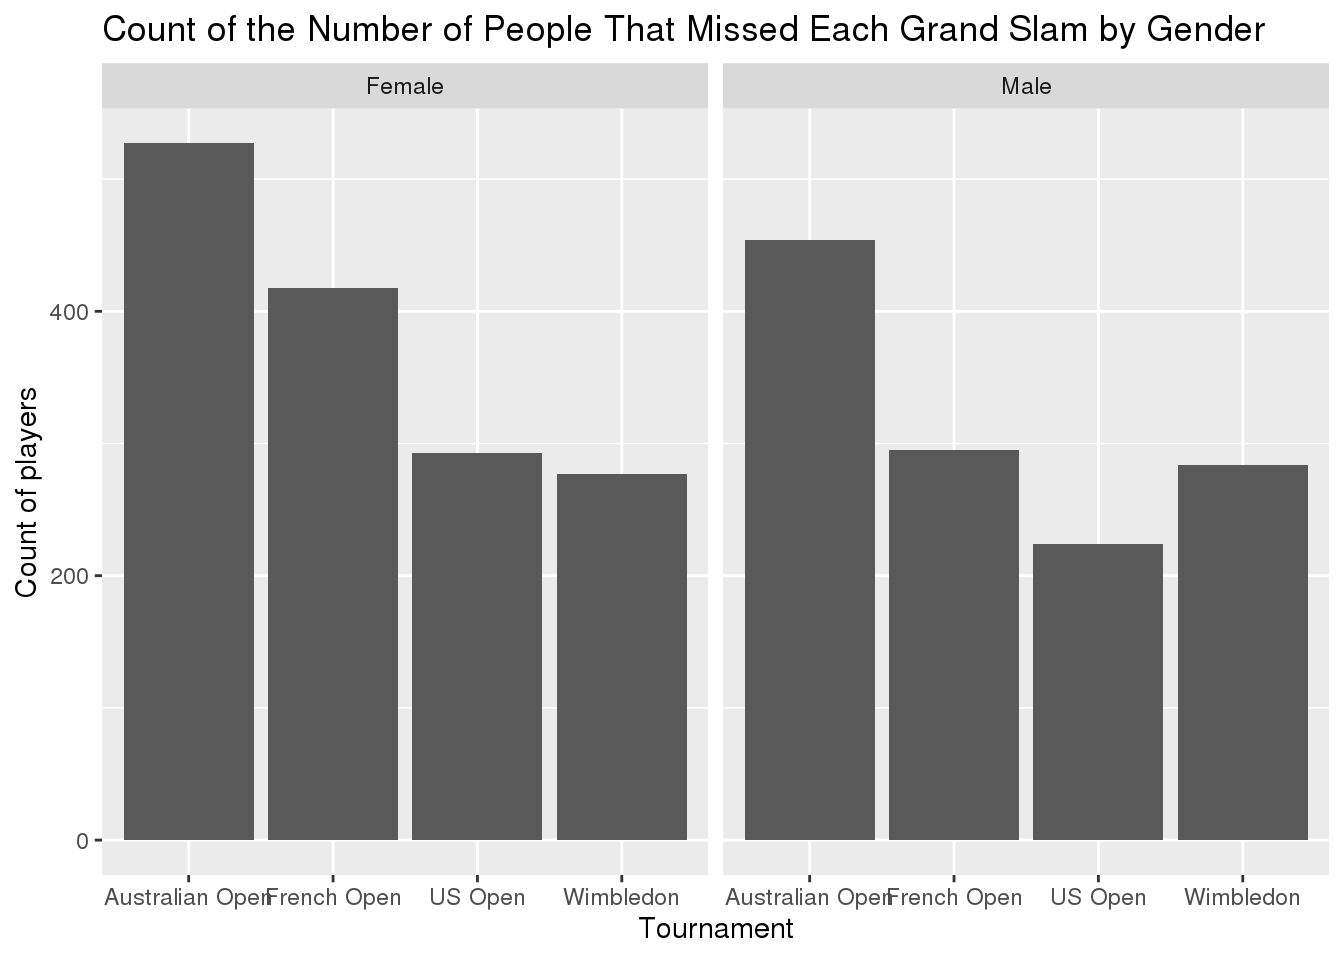
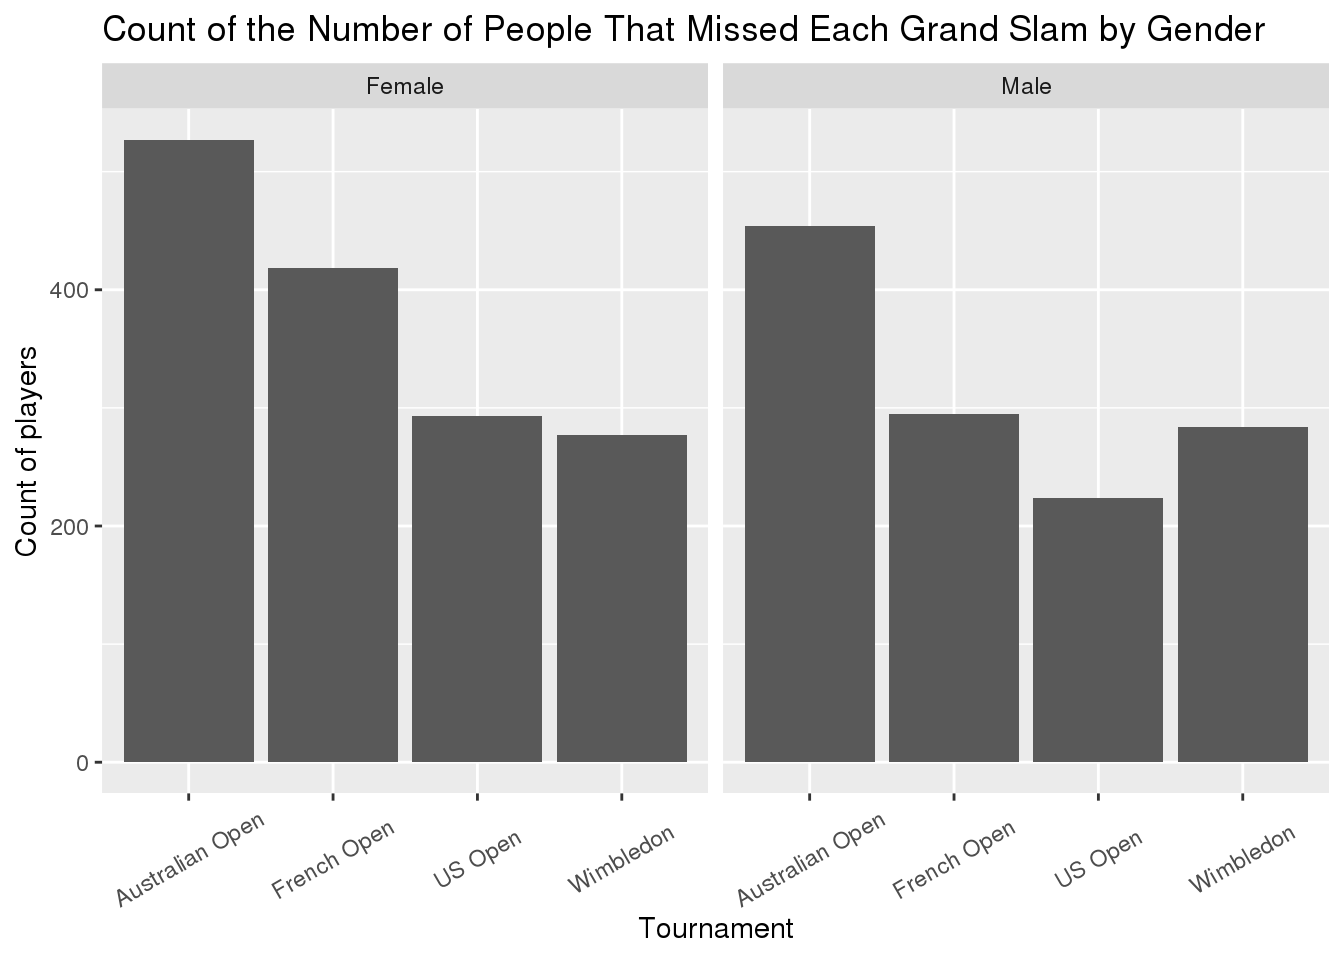
minor adjustments to blog post

diff --git a/content/post/2020-12-08-tennis-grand-slams/index.html b/content/post/2020-12-08-tennis-grand-slams/index.html
@@ -36,7 +36,8 @@ dat3 &lt;- read_csv(here::here(&quot;data&quot;, &quot;player_dob.csv&quot;))</c
   facet_wrap(&quot;gender&quot;) +
   ggtitle(&quot;Tournament at Which First Grand Slam Title Was Won&quot;) +
   ylab(&quot;Count of People&quot;) +
-  xlab(&quot;Tournament&quot;)</code></pre>
+  xlab(&quot;Tournament&quot;) +
+  theme(axis.text.x = element_text(angle = 30, vjust = 0.5))</code></pre>
 <p><img src="index_files/figure-html/unnamed-chunk-2-1.png" width="672" />
 The above graph shows that for both women and men, the majority of players win their first grand slam title at the French Open. Additionally the Australian Open has the least number of first time wins for both. It makes sense that the Australian Open has the least amount of first time wins since it is the first tournament of the calendar year. With the French Open being the second tournament of the year, and taking place several months after the Australian Open, it appears that the players come more prepared to their second tournament of the year to win a title for the first time.</p>
 </div>
@@ -71,7 +72,7 @@ The above graph shows that for both women and men, the majority of players win t
   xlab(&quot;Age (in years)&quot;) +
   ylab(&quot;Total number of wins&quot;)</code></pre>
 <p><img src="index_files/figure-html/unnamed-chunk-3-2.png" width="672" />
-The graphs above show the total number of wins plotted against the age in years of a player when they won their first Grand Slam tournament. The first graph shows overall for both men and women, and the second graph breaks it down between men and women. In both graphs you can see that for the players that win their first tournament close to age 20, there is a significant difference in the number of grand slams that they will go on to win as opposed to those who win their first tournament in later years. This trend seems to be more predominant for women players. Although the total number of grand slams won appears to be close to the same for men and women, the drop off occurs at a later age for men, and occurs less drastically than with the change in number of wins for women.</p>
+The graphs above show the total number of wins plotted against the age in years of a player when they won their first Grand Slam tournament. The first graph shows overall for both men and women, and the second graph breaks it down between men and women. In both graphs you can see that for the players that win their first tournament close to age 20, there is a significant difference in the number of grand slams that they will go on to win as opposed to those who win their first tournament in later years. This trend seems to be more predominant for women players. Although the total number of grand slams won appears to be close to the same for men and women, the drop off occurs at a later age for men, and occurs less drastically than with the change in number of wins for women. This supports the claim that if a player wins their first Grand Slam tournament at a young age they will go on to win more tournaments in their career, on average.</p>
 </div>
 <div id="question-3" class="section level2">
 <h2>Question 3</h2>
@@ -109,8 +110,31 @@ The histograms above show the distribution of the age of the players when they w
   facet_wrap(&quot;gender&quot;) +
   ggtitle(&quot;Count of the Number of People That Missed Each Grand Slam by Gender&quot;) +
   xlab(&quot;Tournament&quot;) +
-  ylab(&quot;Count of players&quot;)</code></pre>
+  ylab(&quot;Count of players&quot;) +
+  theme(axis.text.x = element_text(angle = 30, vjust = 0.5))</code></pre>
 <p><img src="index_files/figure-html/unnamed-chunk-5-2.png" width="672" />
 The two charts above show the total number of players that did not attend a certain tournament, and the second chart breaks it down into women and men. In all three graphics, the Australian Open is the most missed tournament. This is also interesting to look at because going back to the first question, the Australian Open was the tournament that the least number of people won their first grand slam title at. This makes sense if a large number of people are choosing to not play in the tournament. It is also interesting to note that the total number of absent players for the women is higher than for the men.</p>
+</div>
+<div id="question-5" class="section level2">
+<h2>Question 5</h2>
+<p>Of the players with greater than 4 overall wins, which player wins the most for each tournament?</p>
+<pre class="r"><code>dat1 %&gt;%
+  left_join(dat2, c(&quot;player&quot; = &quot;name&quot;)) %&gt;%
+  filter(outcome == &quot;Won&quot;, rolling_win_count &gt;= 4) %&gt;%
+  select(player, year.y, tournament, gender.x, rolling_win_count)</code></pre>
+<pre><code>## # A tibble: 2,888 x 5
+##    player         year.y tournament      gender.x rolling_win_count
+##    &lt;chr&gt;           &lt;dbl&gt; &lt;chr&gt;           &lt;chr&gt;                &lt;dbl&gt;
+##  1 Virginia Wade    1977 US Open         Female                   4
+##  2 Margaret Court   1970 Australian Open Female                   4
+##  3 Margaret Court   1970 Australian Open Female                   5
+##  4 Margaret Court   1970 Australian Open Female                   6
+##  5 Margaret Court   1970 Australian Open Female                   7
+##  6 Margaret Court   1971 Australian Open Female                   8
+##  7 Margaret Court   1973 Australian Open Female                   9
+##  8 Margaret Court   1973 Australian Open Female                  10
+##  9 Margaret Court   1973 Australian Open Female                  11
+## 10 Margaret Court   1970 French Open     Female                   4
+## # … with 2,878 more rows</code></pre>
 </div>
 </div>

diff --git a/content/post/2020-12-06-spotify-songs/index.html b/content/post/2020-12-06-spotify-songs/index.html
@@ -23,6 +23,7 @@ dat &lt;- read_csv(here::here(&quot;data&quot;, &quot;spotify_songs.csv&quot;))<
 <h2>Question 1</h2>
 <p>Is there a positive correlation between the danceability and the popularity of the track?</p>
 <pre class="r"><code>dat %&gt;%
+  filter(track_popularity &gt; 0) %&gt;%
   ggplot(., aes(x = danceability, y = track_popularity)) +
   geom_point(alpha = 0.1) +
   geom_smooth() + 
@@ -52,9 +53,11 @@ dat %&gt;%
   summarise(average_valence = mean(valence, na.rm = TRUE)) %&gt;%
   filter(!is.na(Month)) %&gt;%
   ggplot(., aes(x = Month, y = average_valence)) +
-  geom_line(group = 1) + 
+  geom_point(alpha = 0.5) + 
+  geom_line(group = 1) +
   ggtitle(&quot;Average of Valence of Songs Over Each Month&quot;) + 
-  ylab(&quot;Average of Valence&quot;)</code></pre>
+  ylab(&quot;Average of Valence&quot;) +
+  ylim(0.4, 0.6)</code></pre>
 <p><img src="index_files/figure-html/unnamed-chunk-3-1.png" width="672" />
 The graph above shows the average valence of songs that are released in a certain month and how it changes over the course of a year. A higher valence indicates a happier, more upbeat sounding song, so I predicted that the average valence would be higher for songs released during spring and summer months. For the most part this is true, with the exception of songs that are released in January, have the highest valence of all months. Additionally, the average valence does not change much over the course of the year, there is only about a 0.05 difference in the valence level between January, the highest month, and December, the lowest month.</p>
 </div>
